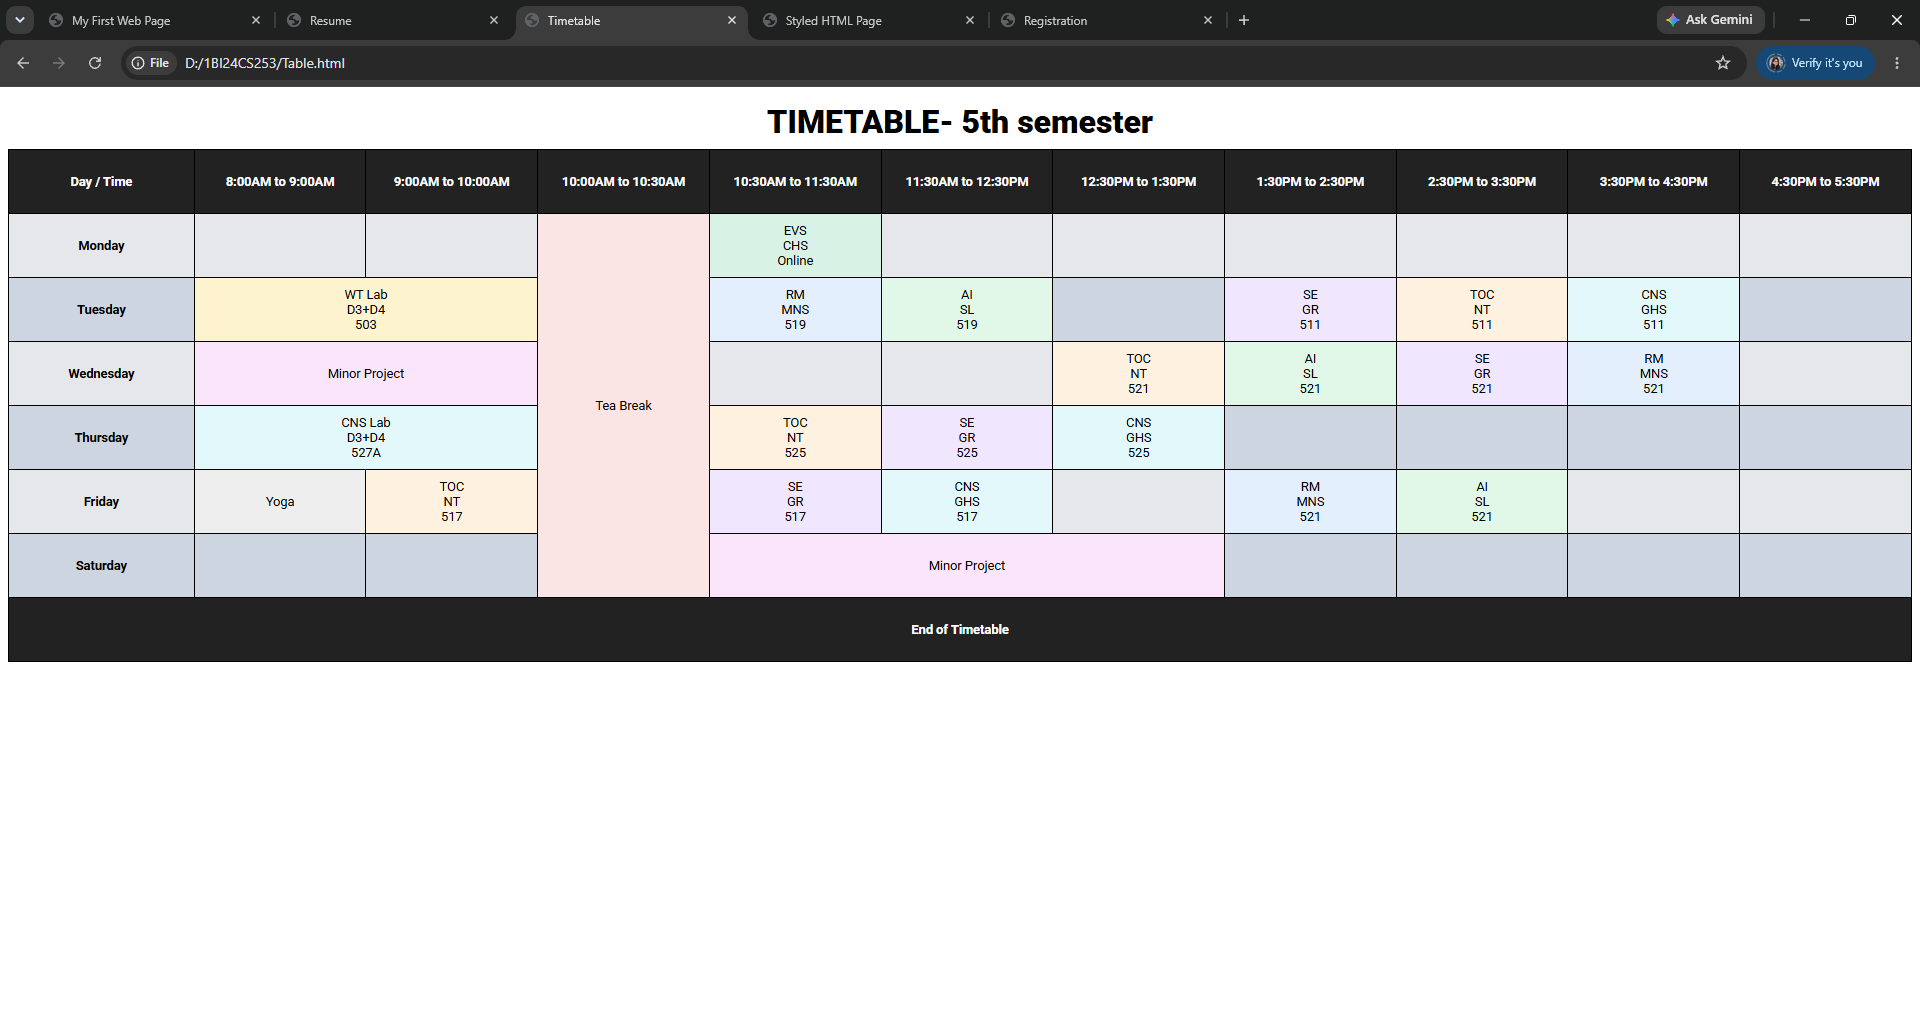
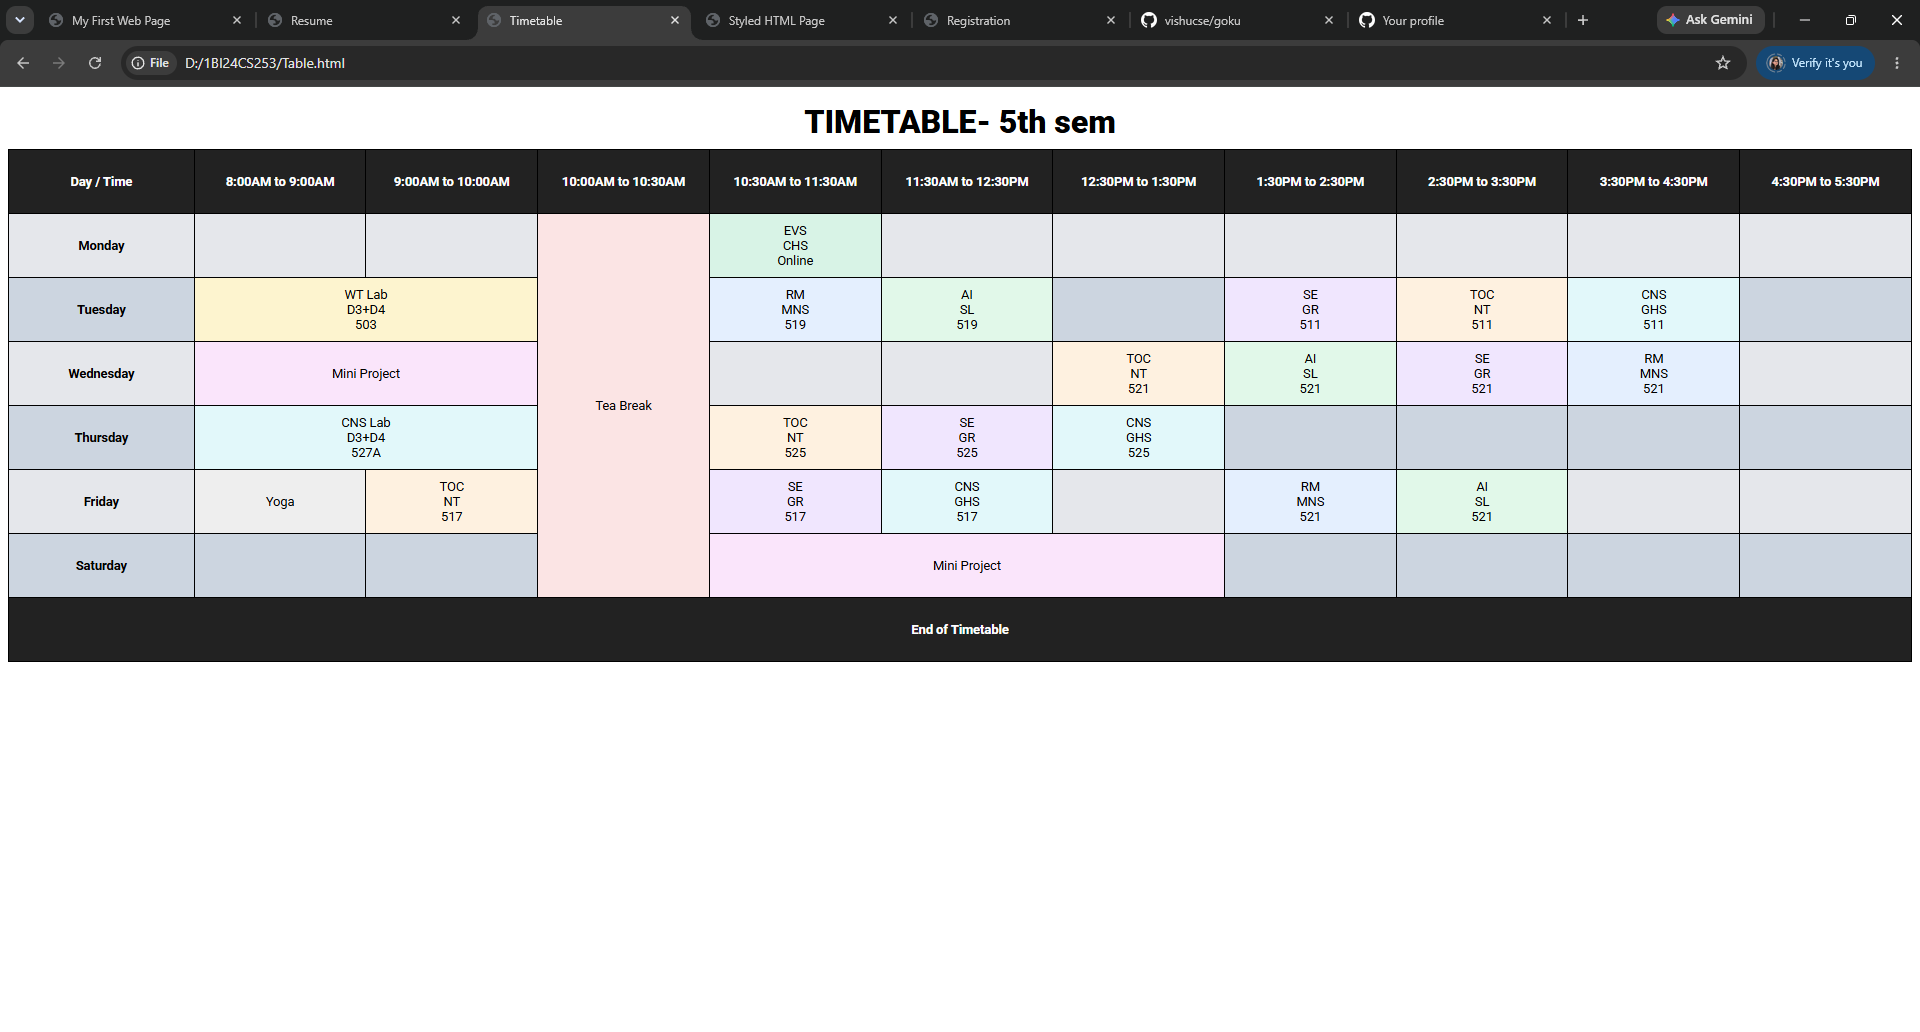
changed minor to mini

diff --git a/table.html b/table.html
@@ -61,7 +61,7 @@
 		</style>
 	</head>
 	<body>
-		<h1>TIMETABLE- 5th semester</h1>
+		<h1>TIMETABLE- 5th sem</h1>
 		<table>
 			<thead>
 				<tr>
@@ -108,7 +108,7 @@
 
 				<tr>
 					<th>Wednesday</th>
-					<td colspan="2" class="project">Minor Project</td>
+					<td colspan="2" class="project">Mini Project</td>
 					<td></td>
 					<td></td>
 					<td class="toc">TOC<br>NT<br>521</td>
@@ -147,7 +147,7 @@
 					<th>Saturday</th>
 					<td></td>
 					<td></td>
-					<td colspan="3" class="project">Minor Project</td>
+					<td colspan="3" class="project">Mini Project</td>
 					<td></td>
 					<td></td>
 					<td></td>
